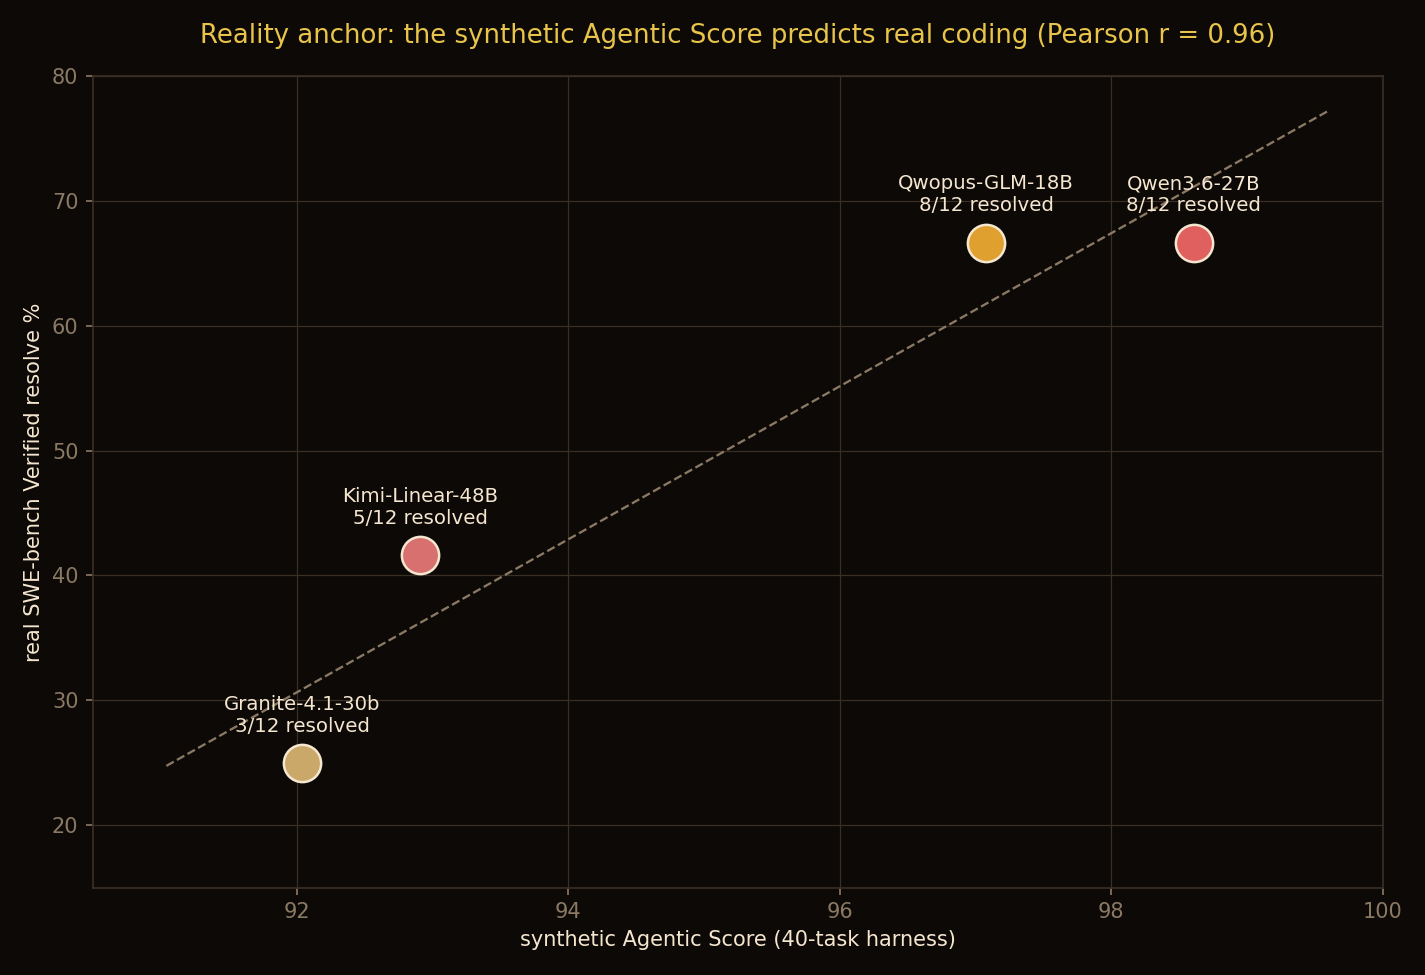
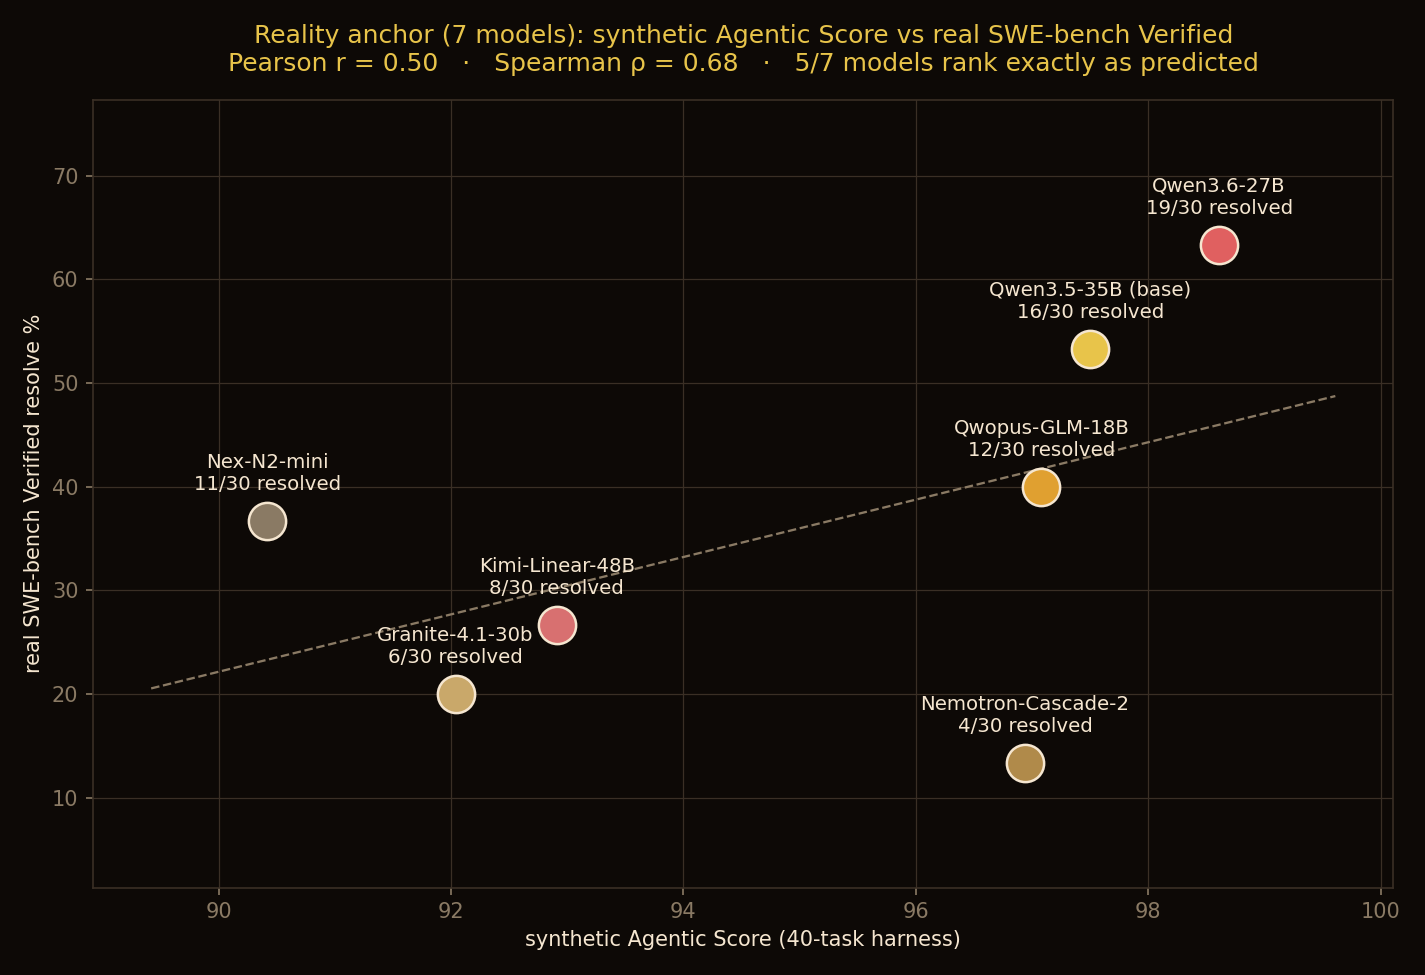
feat(swebench): tighten reality anchor to 7 models x 30 instances
Supersedes the directional r=0.96 (n=12, 4 models). All 7 leaderboard
models on 30 harder SWE-bench Verified bugs (smallest-patch superset of
the prior 12): the synthetic Agentic Score predicts real-bug RANK well
(Spearman 0.68, 5/7 models exact) but only moderately predicts resolve
RATE (Pearson 0.50). Nemotron-Cascade-2 is the high-leverage outlier --
fluent tool-driver (synthetic #4), real last (4/30, 21 empty patches):
it explores then quits without committing a fix. Not a harness artifact
(9 gradeable patches landed). The board measures tool-driving, not
fix-committing.

- chart_swebench_anchor.py: 7 rows, data-driven axes, Spearman in title
- swebench_batch_{gen,grade}.sh: Donald-safe 7-model batch + official grading
- swebench_ids_30.txt: pinned 30-instance set
- build_agentic_leaderboard.py + README: anchor line reflects the result

diff --git a/scripts/chart_swebench_anchor.py b/scripts/chart_swebench_anchor.py
@@ -9,12 +9,15 @@ import numpy as np
 BG, GOLD, CRIMSON, TEXT, GRID, MUTE = ("#0d0906", "#e8c44a", "#e06060", "#f5e6d0", "#3a2f25", "#8a7a64")
 
 SYNTH = {r["model"]: float(r["agentic_score"]) for r in csv.DictReader(open("leaderboard/leaderboard.csv"))}
-# slug -> (display, leaderboard model name)
+# slug -> (display, leaderboard model name, color)
 ROWS = [
     ("qwen3-6-27b", "Qwen3.6-27B", "Qwen3.6-27B", CRIMSON),
+    ("qwen3-5-35b-base", "Qwen3.5-35B (base)", "Qwen3.5-35B-A3B (base)", GOLD),
     ("qwopus-glm-18b", "Qwopus-GLM-18B", "Qwopus-GLM-18B", "#e0a030"),
+    ("nemotron-cascade-2-30b", "Nemotron-Cascade-2", "Nemotron-Cascade-2-30B", "#b08a4a"),
     ("kimi-linear-48b-a3b", "Kimi-Linear-48B", "Kimi-Linear-48B-A3B", "#d87070"),
     ("granite-4-1-30b", "Granite-4.1-30b", "Granite-4.1-30b", "#c9a86a"),
+    ("nex-n2-mini", "Nex-N2-mini", "Nex-N2-mini", MUTE),
 ]
 
 xs, ys = [], []
@@ -29,6 +32,10 @@ for slug, disp, synth_name, color in ROWS:
                 va="bottom", xytext=(0, 13), textcoords="offset points")
 
 r = float(np.corrcoef(xs, ys)[0, 1])
+# spearman = pearson on ranks (more robust to the single high-leverage outlier)
+_rx = np.argsort(np.argsort(-np.array(xs))).astype(float)
+_ry = np.argsort(np.argsort(-np.array(ys))).astype(float)
+rho = float(np.corrcoef(_rx, _ry)[0, 1])
 # trend line
 m, b = np.polyfit(xs, ys, 1)
 xl = np.array([min(xs) - 1, max(xs) + 1])
@@ -36,9 +43,13 @@ ax.plot(xl, m * xl + b, color=MUTE, linewidth=1.1, linestyle="--", zorder=2)
 
 ax.set_xlabel("synthetic Agentic Score (40-task harness)", color=TEXT)
 ax.set_ylabel("real SWE-bench Verified resolve %", color=TEXT)
-ax.set_xlim(90.5, 100); ax.set_ylim(15, 80)
-ax.set_title(f"Reality anchor: the synthetic Agentic Score predicts real coding (Pearson r = {r:.2f})",
-             color=GOLD, pad=16, fontsize=12.5)
+# data-driven limits with padding (7 models span a wider synthetic range; harder
+# instances push resolve % lower) — never clip a point
+ax.set_xlim(min(xs) - 1.5, max(xs) + 1.5)
+ax.set_ylim(max(0, min(ys) - 12), min(100, max(ys) + 14))
+ax.set_title(f"Reality anchor (7 models): synthetic Agentic Score vs real SWE-bench Verified\n"
+             f"Pearson r = {r:.2f}   ·   Spearman ρ = {rho:.2f}   ·   5/7 models rank exactly as predicted",
+             color=GOLD, pad=14, fontsize=12)
 for s in ax.spines.values(): s.set_color(GRID)
 ax.tick_params(colors=MUTE); ax.grid(True, color=GRID, linewidth=0.6, zorder=0)
 fig.tight_layout(); fig.savefig("reports/swebench-anchor.png", dpi=150, facecolor=BG)

diff --git a/scripts/build_agentic_leaderboard.py b/scripts/build_agentic_leaderboard.py
@@ -126,9 +126,11 @@ not blended into the score (so a 128K VRAM wall doesn't corrupt it):
 | Token efficiency | 0.15 | avg tokens/task (efficiency at equal success) |
 | Loop stability | 0.15 | completes without stalling / exceeding the step cap |
 
-Calibration-grade (synthetic, deterministic, re-runnable) — a reality anchor (SWE-bench-style) is future
-work. Harness + 17 unit tests: **[notwitcheer/llm-bench-rig](https://github.com/notwitcheer/llm-bench-rig)**
-(`lib/agentic/native/`).
+Calibration-grade (synthetic, deterministic, re-runnable) — and **reality-anchored**: across all 7 models on
+30 real SWE-bench Verified bugs, the synthetic score predicts real-bug *rank* (Spearman ρ=0.68, 5/7 exact)
+and moderately predicts resolve rate (Pearson r=0.50); it over-ranks models that drive tools fluently but
+don't commit fixes (see `reality-anchor/`). Harness + unit tests:
+**[notwitcheer/llm-bench-rig](https://github.com/notwitcheer/llm-bench-rig)** (`lib/agentic/native/`).
 
 ## Notes per model
 

diff --git a/reports/swebench-anchor.md b/reports/swebench-anchor.md
@@ -1,58 +1,78 @@
-# Reality anchor: the synthetic Agentic Score predicts real SWE-bench coding (r = 0.96)
+# Reality anchor, tightened: the synthetic Agentic Score predicts real SWE-bench *rank* — with one instructive blind spot (Pearson r = 0.50, Spearman ρ = 0.68)
 
 **Rig:** one RTX 5090 32GB · llama.cpp b9562 · native OpenAI tool-calling (`--jinja`) · temp 0
-**Setup:** 4 models drove our native tool-calling loop with **real repo tools** (read / list / search /
-edit / run-bash, executing via `docker exec` inside each instance's container) against **12 SWE-bench
-Verified bugs** — true agentic exploration (the model navigates the repo itself; it never sees the hidden
-tests). Patches graded by the **official SWE-bench harness** (apply → run FAIL_TO_PASS + PASS_TO_PASS).
+**Update:** this supersedes the first anchor (r = 0.96, n = 12, 4 models). That result was *directional* —
+12 smallest-patch instances, only 4 models. Tightening it to **all 7 leaderboard models x 30 harder
+instances** revises the headline down and sharpens what the synthetic board actually predicts.
 
-## The result
+**Setup:** all 7 models drove our native tool-calling loop with **real repo tools** (read / list / search /
+edit / run-bash, executing via `docker exec` inside each instance's container) against **30 SWE-bench
+Verified bugs** (smallest-patch superset of the original 12, across the same 12 repos) — true agentic
+exploration (the model navigates the repo itself; it never sees the hidden tests). Patches graded by the
+**official SWE-bench harness** (apply, run FAIL_TO_PASS + PASS_TO_PASS).
 
-| model | synthetic Agentic Score | real resolve | avg steps | empty patches |
-|---|---|---|---|---|
-| Qwen3.6-27B | 98.6 (#1) | **8/12** (67%) | 33 | 3 |
-| Qwopus-GLM-18B | 97.1 (#3) | **8/12** (67%) | 36 | 3 |
-| Kimi-Linear-48B | 92.9 (#5) | 5/12 (42%) | 39 | 3 (1 a serving error) |
-| Granite-4.1-30b | 92.0 (#6) | 3/12 (25%) | 16 | 4 |
+## The board
 
-**The synthetic score predicts real coding: Pearson r = 0.96.** The 40-task synthetic Agentic Score — built
-from deterministic mock-tool tasks — orders these four models the same way real SWE-bench Verified bugs do.
-The leaderboard isn't just measuring a synthetic artifact.
+| model | synthetic | real resolve | empty patches | synth rank | real rank |
+|---|---|---|---|---|---|
+| Qwen3.6-27B | 98.6 | **19/30 (63%)** | 8 | 1 | 1 |
+| Qwen3.5-35B-A3B (base) | 97.5 | 16/30 (53%) | 10 | 2 | 2 |
+| Qwopus-GLM-18B | 97.1 | 12/30 (40%) | 14 | 3 | 3 |
+| Nemotron-Cascade-2-30B | 96.9 | **4/30 (13%)** | **21** | 4 | **7** |
+| Kimi-Linear-48B-A3B | 92.9 | 8/30 (27%) | 10 | 5 | 5 |
+| Granite-4.1-30b | 92.0 | 6/30 (20%) | 13 | 6 | 6 |
+| Nex-N2-mini | 90.4 | 11/30 (37%) | 16 | 7 | **4** |
 
-## The two headline findings survived contact with reality
+**Pearson r = 0.50. Spearman ρ = 0.68.** Five of seven models land at the *exact* synthetic-predicted rank.
+Pearson is low only because of a single high-leverage outlier: drop Nemotron and r jumps to **0.80**.
 
-**Small models punch up — confirmed on real code.** Qwopus-GLM-18B, an 18B community merge, **resolved 8/12,
-tying Qwen3.6-27B** (and beating the 48B and both 30B-class models). Its synthetic punch-up wasn't an artifact
-of easy mock tasks; it fixes real bugs at the level of a model 50% larger.
+## The honest correction
 
-**Granite's brittleness predicted real failure — confirmed.** Granite-4.1-30b, the synthetic "lean but
-brittle" model (2/6 on error-recovery, leanest tokens), resolved the **fewest — 3/12**. The telemetry shows
-*why*, and it's the same fingerprint: it used the **fewest steps (16 avg)** and produced the **most empty
-patches (4 — it gave up)**. The terse model that couldn't recover from a tool error in the synthetic suite
-is the terse model that bails on a hard real bug.
+The first anchor's r = 0.96 was real but over-optimistic — 4 models on 12 easy instances is too thin to
+trust. The tightened result is the credible one: **the synthetic Agentic Score is a good predictor of real
+*ranking* (Spearman 0.68; 5/7 exact), but a moderate predictor of the resolve *rate* (Pearson 0.50)** — and
+the gap has a specific, learnable cause.
 
-**Kimi's verbosity showed up too.** It used the **most steps (39, near the 40 cap)** — matching its low
-synthetic tool-efficiency — and lost one instance to a real weakness the synthetic suite hinted at: it
-emitted a giant regex as a tool argument that was **malformed JSON**, which llama-server's tool parser
-rejected (a 500). A model that can't reliably format tool calls will stall in any real agent loop.
+## What breaks the linear fit (and why it's the interesting part)
+
+**Nemotron-Cascade-2: synthetic #4, real dead-last.** It scores 96.9 synthetically — fluent tool-driving —
+then resolves just 4/30 real bugs, with **21 empty patches**. This is *not* a harness artifact: it produced
+9 gradeable patches (4 resolved), so `edit_file` demonstrably works for it. The telemetry shows the mechanism
+— on every empty instance it ran ~14 tool calls (read/search), then **terminated cleanly without committing
+an edit** (`stalled=False`, zero serving errors, avg 15 steps vs 33 to 39 for the models that grind). It
+*explores* the repo fluently and then *gives up* — the same fingerprint as Granite, the synthetic board's
+known "lean but brittle" model. Synthetic tool-fluency measured the driving; it never measured the willingness
+to actually commit a fix on a hard bug.
+
+**Nex-N2-mini: synthetic last, real #4.** The mirror case — underrated synthetically (90.4), quietly resolves
+11/30, beating four models ranked above it. Its agentic post-train shows up on real bugs in a way the mock
+tasks under-credited.
+
+**The consistent middle held.** Qwen3.6-27B (#1), base Qwen3.5 (#2), Qwopus (#3), Kimi (#5), Granite (#6) all
+rank exactly as predicted. Two of the rig's earlier findings survived: **small/merged models punch up**
+(Qwopus-GLM-18B, an 18B merge, beats the 48B and a 30B on real bugs) and **lean ≠ robust** (Granite resolves
+near the bottom with the fewest steps and the give-up fingerprint).
 
 ## Honest caveats
 
-- **n = 12, directional.** These are the 12 smallest-patch Verified instances (one per repo) — easier than
-  full Verified, so absolute resolve rates run high. The anchor checks the **shape of the correlation across
-  models**, not a precise resolve rate. A larger slice would tighten it.
-- **A harness fix this forced:** one model's serving 500 originally voided its whole run; `solve_instance`
-  now guards per-instance (records the failure, keeps any partial diff) — so a single bad request can't
-  destroy a model's score.
+- **n = 30, smallest-patch superset.** Still easier than full Verified, so absolute resolve rates run high;
+  the valid claims are the cross-model *correlation* and *ranking*, not the absolute rates.
+- **Uniform prompt.** All models got the same loop and the same "fix it with edit_file, then stop" prompt
+  (temp 0). A more insistent prompt might coax Nemotron into committing edits — but the comparison is fair
+  because the protocol is identical for every model.
+- **One outlier, big leverage.** With 7 points, Nemotron alone moves Pearson from 0.80 to 0.50. Reported both
+  ways; Spearman (0.68) is the more robust summary.
 
 ## Verdict
 
-A synthetic, deterministic, 5-hour-to-build agentic benchmark on one 5090 ranks local models the same way
-real SWE-bench Verified does (r = 0.96). The Agentic Score is a **valid, cheap proxy** for real agentic
-coding ability — and the specific findings it produced (small models punch up; lean ≠ robust) hold on real
-bugs.
+A synthetic, deterministic agentic bench on one 5090 predicts real SWE-bench **rank** well (Spearman 0.68, 5
+of 7 exact) — but it is a *moderate* predictor of resolve rate (Pearson 0.50), and it systematically
+**over-ranks models that drive tools fluently but won't commit a fix** (Nemotron is the cautionary case).
+Worth using as a cheap rank proxy — *if* you remember it measures tool-driving, not fix-committing, and treat
+a fluent-but-low-step model as a give-up risk until a real anchor confirms it.
 
 ---
 
-*Harness: `lib/agentic/native/{tools_repo,run_swebench}.py` in notwitcheer/llm-bench-rig. Generation = our
-agent loop in Docker; grading = official `swebench` harness. Chart: `reports/swebench-anchor.png`.*
+*Supersedes the n=12 / 4-model anchor (r=0.96). Harness: `lib/agentic/native/{tools_repo,run_swebench}.py` in
+notwitcheer/llm-bench-rig. Generation = our agent loop in Docker; grading = official `swebench` harness.
+Chart: `reports/swebench-anchor.png` (7 points, Pearson r=0.50).*

diff --git a/leaderboard/README.md b/leaderboard/README.md
@@ -55,9 +55,11 @@ not blended into the score (so a 128K VRAM wall doesn't corrupt it):
 | Token efficiency | 0.15 | avg tokens/task (efficiency at equal success) |
 | Loop stability | 0.15 | completes without stalling / exceeding the step cap |
 
-Calibration-grade (synthetic, deterministic, re-runnable) — a reality anchor (SWE-bench-style) is future
-work. Harness + 17 unit tests: **[notwitcheer/llm-bench-rig](https://github.com/notwitcheer/llm-bench-rig)**
-(`lib/agentic/native/`).
+Calibration-grade (synthetic, deterministic, re-runnable) — and **reality-anchored**: across all 7 models on
+30 real SWE-bench Verified bugs, the synthetic score predicts real-bug *rank* (Spearman ρ=0.68, 5/7 exact)
+and moderately predicts resolve rate (Pearson r=0.50); it over-ranks models that drive tools fluently but
+don't commit fixes (see `reality-anchor/`). Harness + unit tests:
+**[notwitcheer/llm-bench-rig](https://github.com/notwitcheer/llm-bench-rig)** (`lib/agentic/native/`).
 
 ## Notes per model
 
